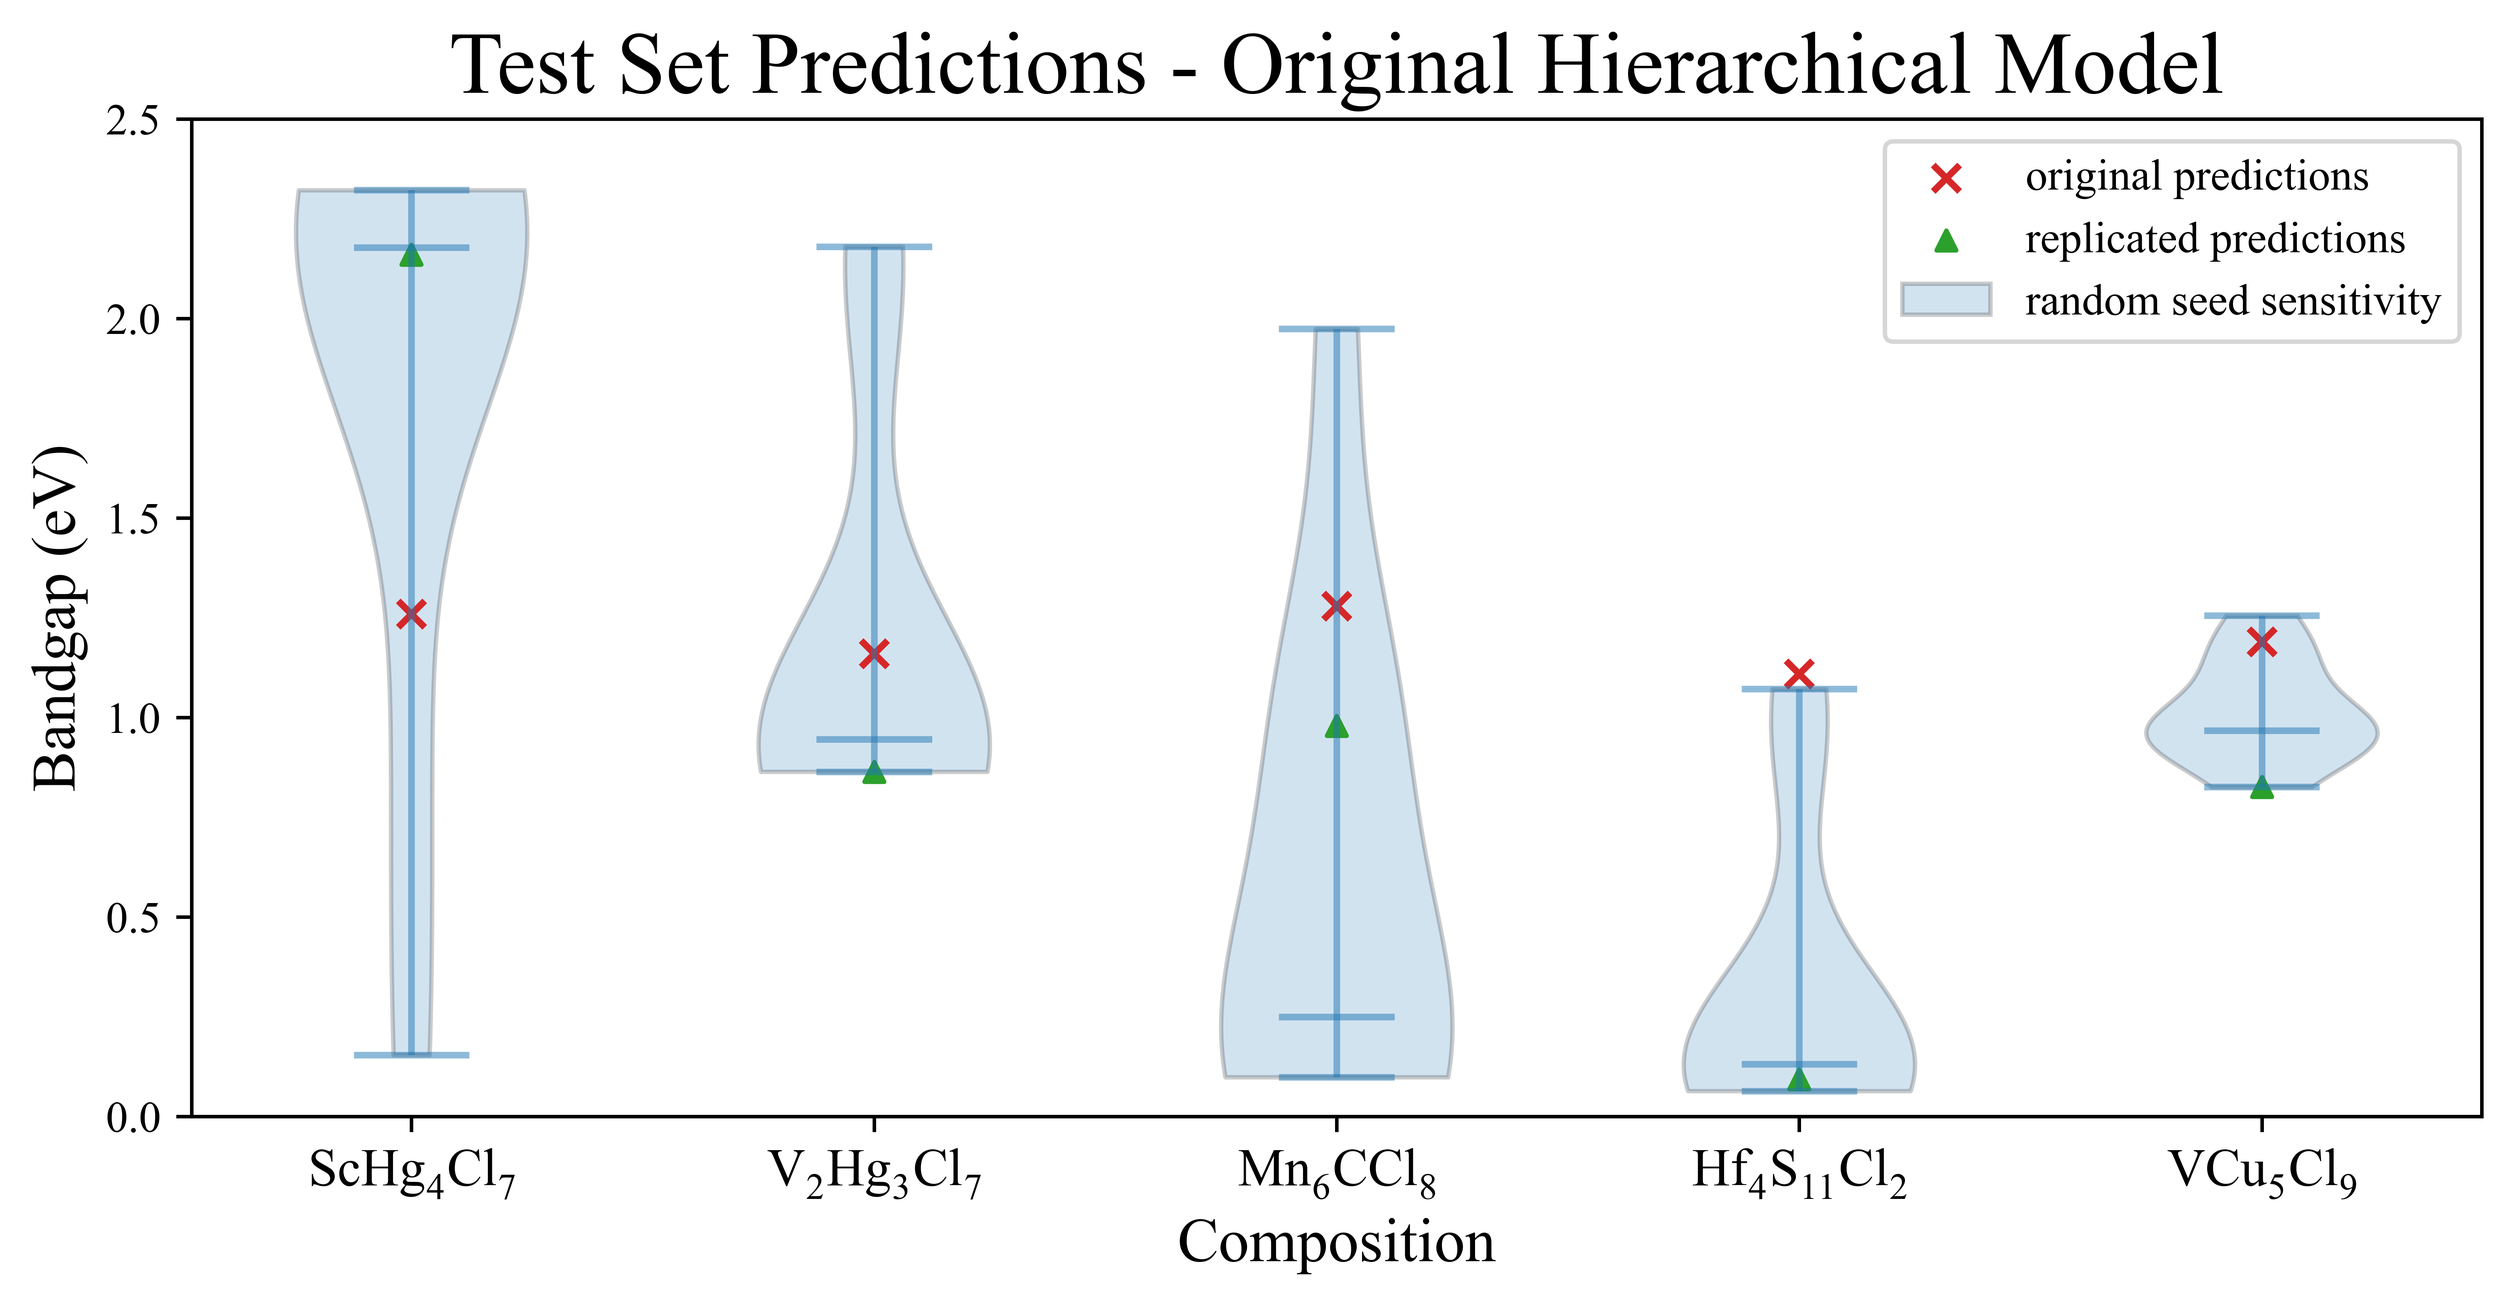
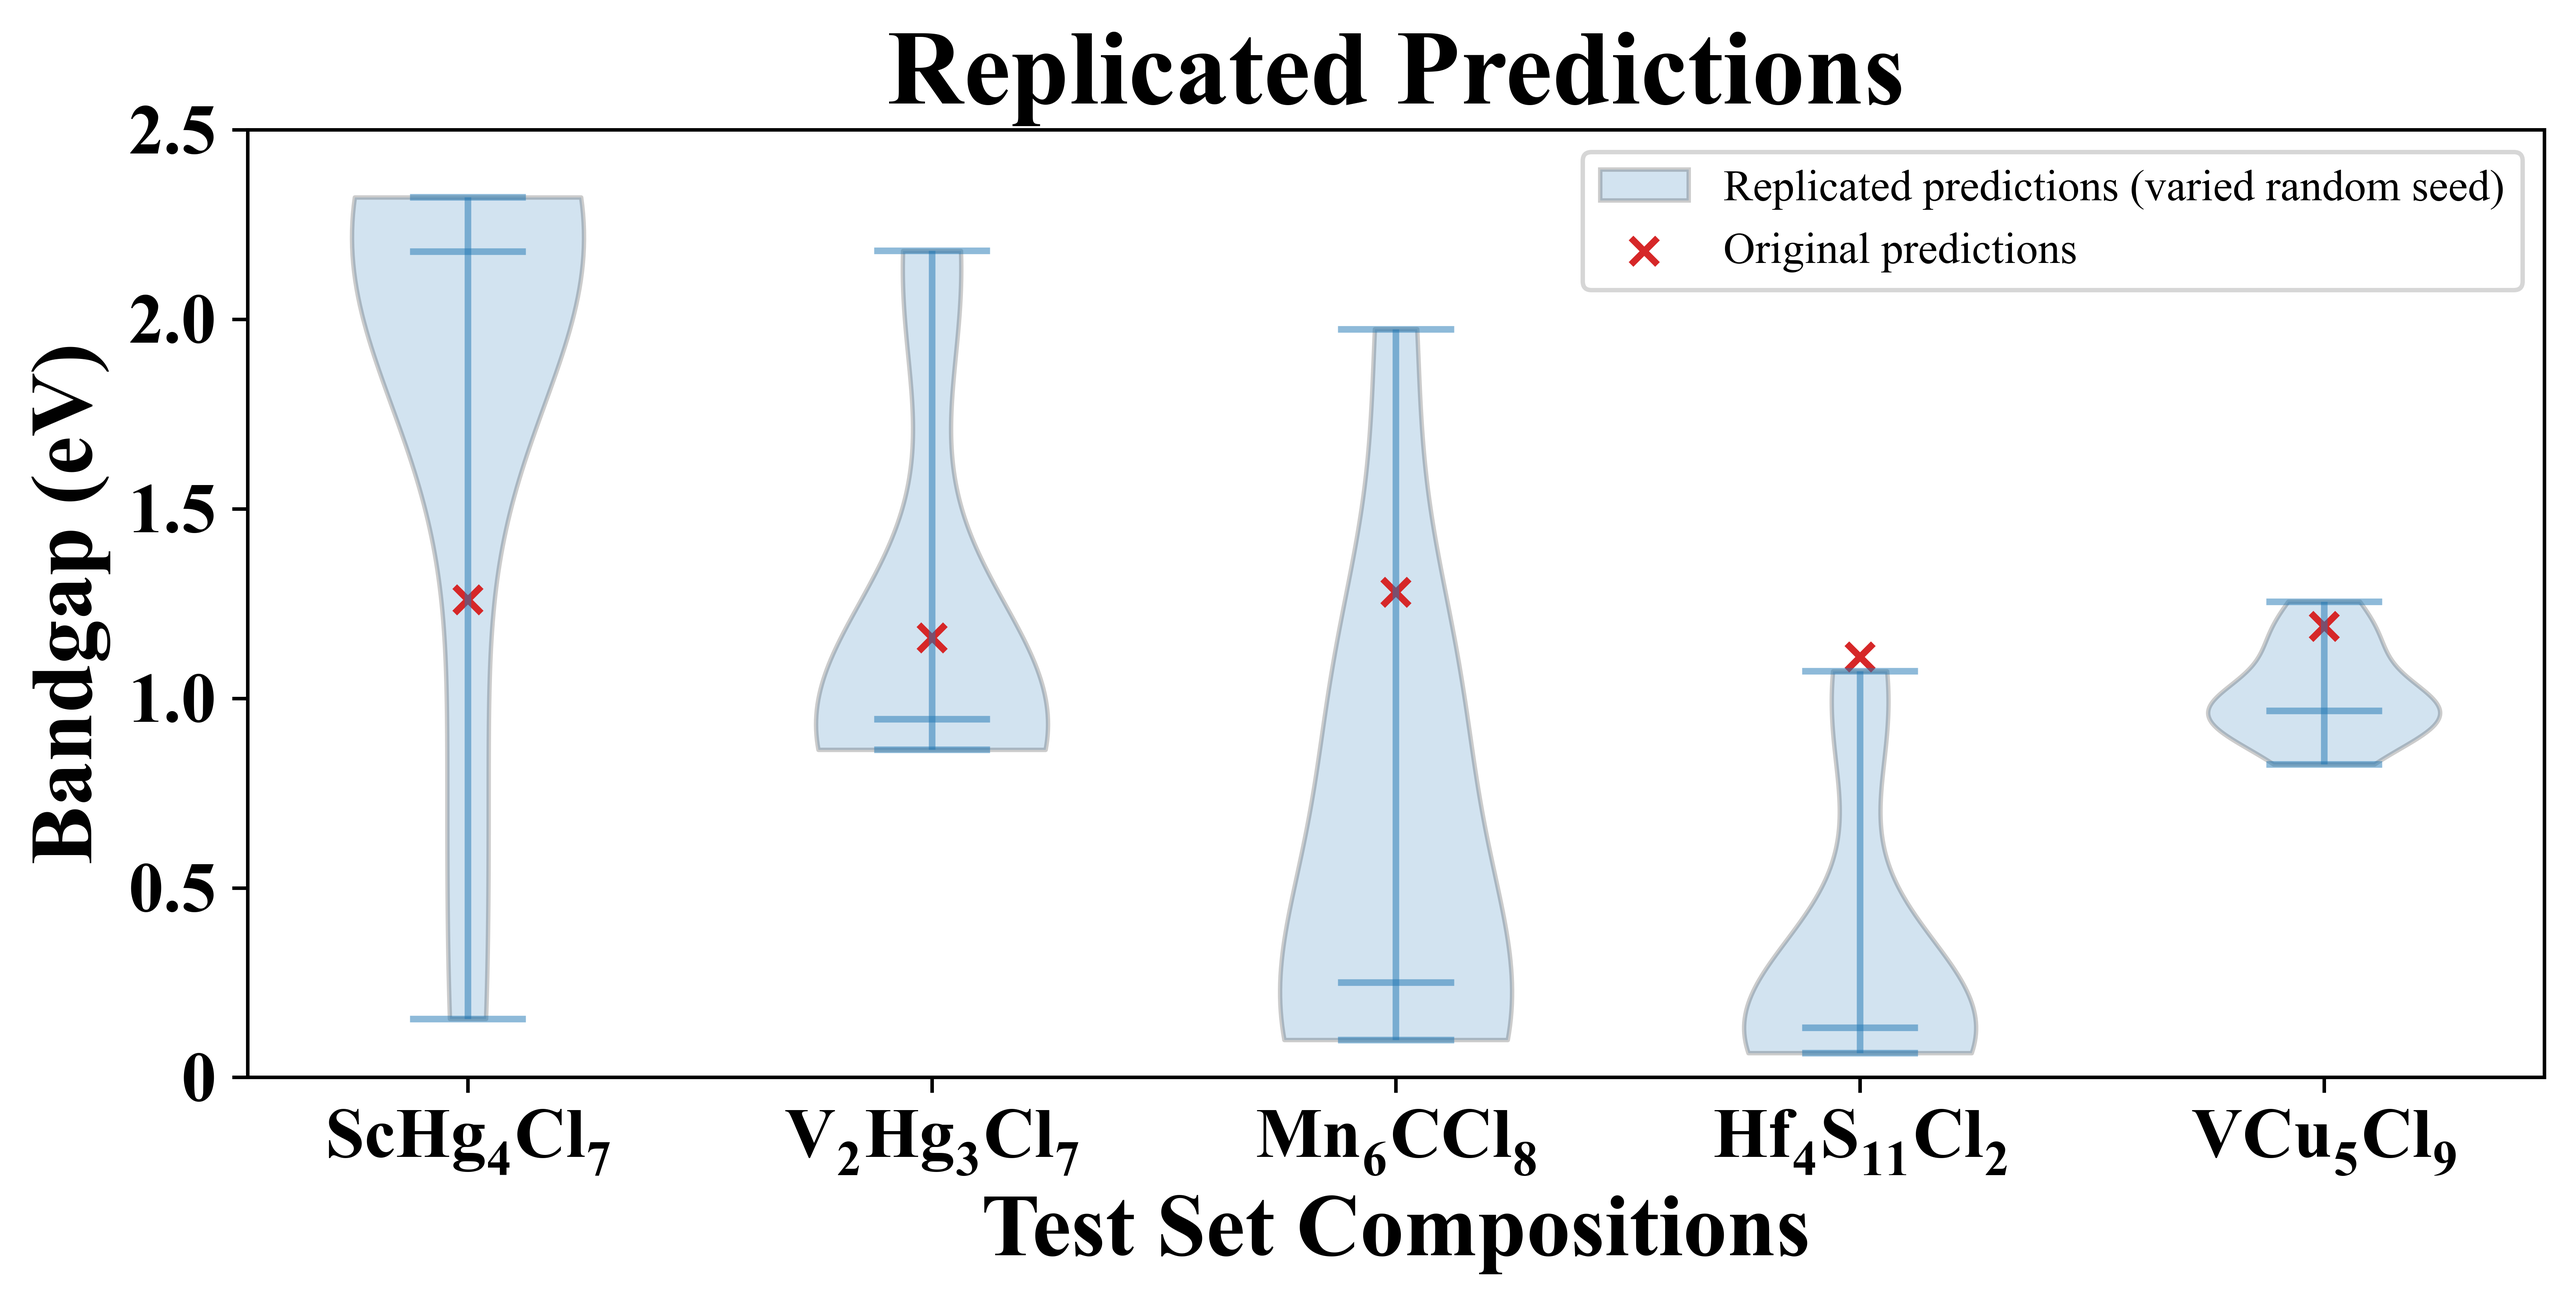
editted the image to go in the table of contents

diff --git a/plotPredictions.py b/plotPredictions.py
@@ -122,10 +122,56 @@ fig.savefig('plots/replication/testData_replicatedPredictions.png', dpi=800, bbo
 # save the figure as a .tiff file
 fig.savefig('plots/replication/testData_replicatedPredictions.tif', dpi=600, bbox_inches='tight')
 
+#%%
+# PLOT PREDICTIONS FOR TABLE OF CONTENTS-------------------------------------------------------------------------------
+
+# initialize a subplot with 1 row and 1 column
+fig, ax = plt.subplots(1, 1, figsize=(2, 1), facecolor='w', edgecolor='k', dpi = 800, constrained_layout=True)
+
+# plot the repPredictions
+pltVP = ax.violinplot(lstViolinData, showextrema=True, showmedians=True)
+# add violin plot labels
+pltVP['bodies'][0].set_label('Replicated predictions (varied random seed)')
+# adjust transparency of the violins and the median lines
+for body in pltVP['bodies']:
+    body.set_alpha(0.2)
+    body.set_edgecolor('black')
+pltVP['cbars'].set_alpha(0.5)
+pltVP['cmaxes'].set_alpha(0.5)
+pltVP['cmins'].set_alpha(0.5)
+pltVP['cmedians'].set_alpha(0.5)
+# plot the orgPredictions with red x's
+ax.scatter(np.arange(1, 6, 1), dfTest['orgPredictions'], marker='x', color='tab:red', label ='Original predictions')
+
+
+# set the xticks
+ax.set_xticks(np.arange(1, 6, 1))
+# set the xticklabels
+ax.set_xticklabels(lstCompositionsFormated, fontdict={'fontsize': 16, 'fontweight': 'bold'})
+# set the x-axis label
+ax.set_xlabel('Test Set Compositions', fontdict={'fontsize': 20, 'fontweight': 'bold'})
+
+# set the yticks
+ax.set_yticks(np.arange(0, 3.0, 0.5))
+# set the yticklabels
+ax.set_yticklabels(['0', '0.5', '1.0', '1.5', '2.0', '2.5'], fontdict={'fontsize': 16, 'fontweight': 'bold'})
+# set the y-axis label
+ax.set_ylabel('Bandgap (eV)', fontdict={'fontsize': 20, 'fontweight': 'bold'})
+# set the y-axis limits from 0 to 2.5 in increments of 0.5
+ax.set_ylim(0, 2.5, 0.5)
+
+# set the title
+ax.set_title('Replicated Predictions', fontdict={'fontsize': 24, 'fontweight': 'bold'})
+
+# reorder the legend entries
+handles, labels = ax.get_legend_handles_labels()
+# handles = [handles[1], handles[2], handles[0]]
+# labels = [labels[1], labels[2], labels[0]]
+# add the legend
+ax.legend(handles, labels, )
+
 # set the dimensions of the figure to 8cm x 4cm
 fig.set_size_inches(8, 4)
 # save the figure
 fig.savefig('plots/replication/testData_replicatedPredictions_tc.png', dpi=800, bbox_inches='tight')
 fig.savefig('plots/replication/testData_replicatedPredictions_tc.tif', dpi=600, bbox_inches='tight')
-
-# %%
